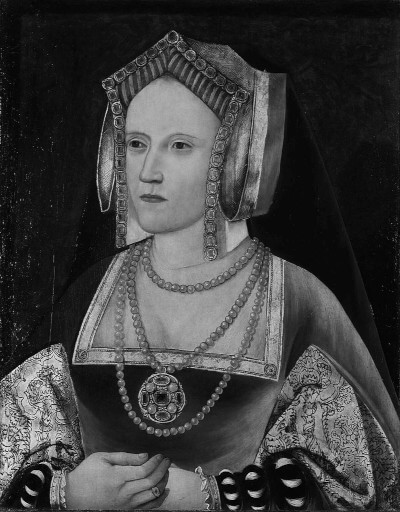
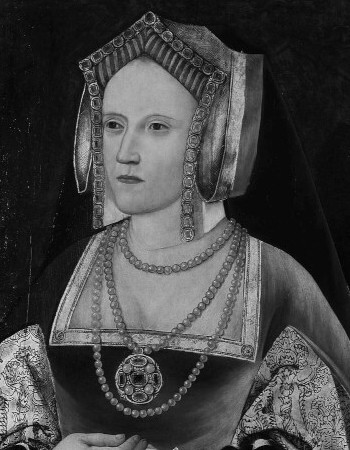
Replace images with cropped images of equal size and set height to 100%

diff --git a/assets/css/style.css b/assets/css/style.css
@@ -104,12 +104,21 @@ main {
 .bio {
     display: grid;
     grid-template-columns: repeat(3, 1fr);
+    /* grid-template-rows: 350px; */
     grid-auto-flow: dense;
+    place-items: center;
 }
 
 .bio-text {
     grid-column: span 2;
     align-self: center;
+}
+
+.bio img {
+    height: 100%;
+    width: auto;
+    object-fit: cover;
+    overflow: hidden;
 }
 
 .left {
